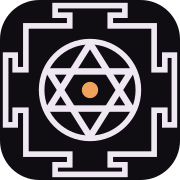
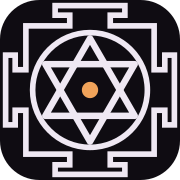
fix(website): ring and star fill the bhupura (r 8.6→10.2, star scaled with it)

Changed region(s): [[0.1667, 0.1667, 0.8611, 0.8611], [0.6667, 0.4722, 0.6944, 0.5278], [0.3056, 0.4722, 0.3333, 0.5278]]

diff --git a/website/public/bench.html b/website/public/bench.html
@@ -53,20 +53,20 @@
             <circle
               cx="16"
               cy="16"
-              r="8.6"
+              r="10.2"
               fill="none"
               stroke="currentColor"
               stroke-width="1.1"
             />
             <path
-              d="M 16.00 7.70 L 23.30 19.30 L 8.70 19.30 Z"
+              d="M 16.00 6.82 L 23.95 20.59 L 8.05 20.59 Z"
               fill="none"
               stroke="currentColor"
               stroke-width="1.3"
               stroke-linejoin="round"
             />
             <path
-              d="M 16.00 24.30 L 23.30 12.70 L 8.70 12.70 Z"
+              d="M 16.00 25.18 L 23.95 11.41 L 8.05 11.41 Z"
               fill="none"
               stroke="currentColor"
               stroke-width="1.3"

diff --git a/website/public/index.html b/website/public/index.html
@@ -64,20 +64,20 @@
             <circle
               cx="16"
               cy="16"
-              r="8.6"
+              r="10.2"
               fill="none"
               stroke="currentColor"
               stroke-width="1.1"
             />
             <path
-              d="M 16.00 7.70 L 23.30 19.30 L 8.70 19.30 Z"
+              d="M 16.00 6.82 L 23.95 20.59 L 8.05 20.59 Z"
               fill="none"
               stroke="currentColor"
               stroke-width="1.3"
               stroke-linejoin="round"
             />
             <path
-              d="M 16.00 24.30 L 23.30 12.70 L 8.70 12.70 Z"
+              d="M 16.00 25.18 L 23.95 11.41 L 8.05 11.41 Z"
               fill="none"
               stroke="currentColor"
               stroke-width="1.3"

diff --git a/website/public/shame.html b/website/public/shame.html
@@ -53,20 +53,20 @@
             <circle
               cx="16"
               cy="16"
-              r="8.6"
+              r="10.2"
               fill="none"
               stroke="currentColor"
               stroke-width="1.1"
             />
             <path
-              d="M 16.00 7.70 L 23.30 19.30 L 8.70 19.30 Z"
+              d="M 16.00 6.82 L 23.95 20.59 L 8.05 20.59 Z"
               fill="none"
               stroke="currentColor"
               stroke-width="1.3"
               stroke-linejoin="round"
             />
             <path
-              d="M 16.00 24.30 L 23.30 12.70 L 8.70 12.70 Z"
+              d="M 16.00 25.18 L 23.95 11.41 L 8.05 11.41 Z"
               fill="none"
               stroke="currentColor"
               stroke-width="1.3"

diff --git a/website/assets/og.html b/website/assets/og.html
@@ -123,20 +123,20 @@
         <circle
           cx="16"
           cy="16"
-          r="8.6"
+          r="10.2"
           fill="none"
           stroke="#efe8f3"
           stroke-width="1.0"
         />
         <path
-          d="M 16.00 7.70 L 23.30 19.30 L 8.70 19.30 Z"
+          d="M 16.00 6.82 L 23.95 20.59 L 8.05 20.59 Z"
           fill="none"
           stroke="#efe8f3"
           stroke-width="1.15"
           stroke-linejoin="round"
         />
         <path
-          d="M 16.00 24.30 L 23.30 12.70 L 8.70 12.70 Z"
+          d="M 16.00 25.18 L 23.95 11.41 L 8.05 11.41 Z"
           fill="none"
           stroke="#efe8f3"
           stroke-width="1.15"
